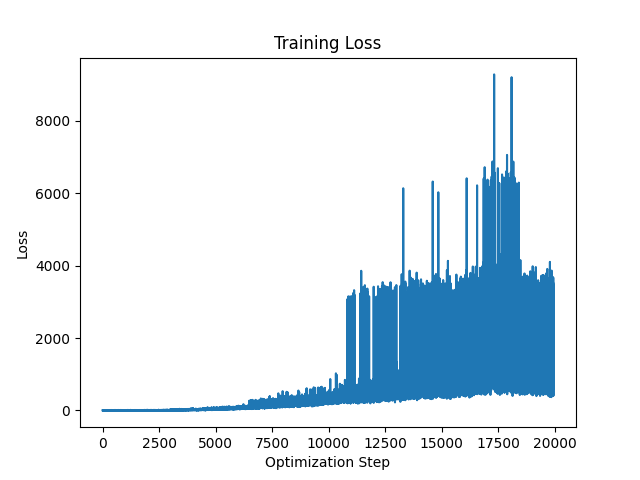
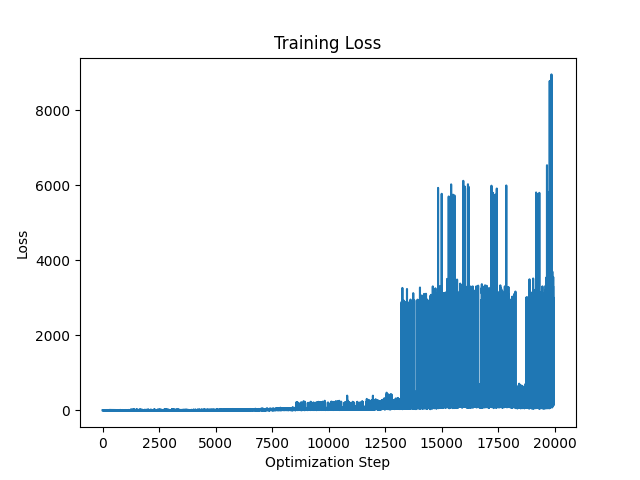
network was supposed to be sequential lmao

diff --git a/src/ai/tetris_network.py b/src/ai/tetris_network.py
@@ -1,4 +1,4 @@
-from .q_network import QNetwork, ReplayMemory, Transition
+from .q_network import QNetworkA, ReplayMemory, Transition
 from tetris import Tetris
 import torch
 import torch.nn as nn
@@ -9,7 +9,7 @@ import math
 import matplotlib.pyplot as plt
 
 class TetrisNetwork:
-    def __init__(self, env: Tetris, load=False, epsilon_start=1.0, epsilon_min=0.001, epsilon_decay=100000, learning_rate=1e-4):
+    def __init__(self, env: Tetris, load=False, epsilon_start=1.0, epsilon_min=0.001, epsilon_decay=150000, learning_rate=1e-4):
         self.device = torch.device(
             "cuda" if torch.cuda.is_available() else
             "mps" if torch.backends.mps.is_available() else
@@ -27,7 +27,7 @@ class TetrisNetwork:
         self.learning_rate = learning_rate
         self.GAMMA = 0.99
 
-        self.network = QNetwork().to(self.device)
+        self.network = QNetworkA().to(self.device)
         if load:
             self.network.load_state_dict(torch.load("network", weights_only=True))
             self.network.eval()
@@ -143,6 +143,10 @@ class TetrisNetwork:
             if episode % 200 == 0:
                 self.save_model()
 
+            if rewards > max_reward:
+                max_reward = rewards
+                self.save_model("max_reward_network")
+
             self.optimize_model()
             self.optimize_model()
 
@@ -153,8 +157,8 @@ class TetrisNetwork:
         print(f"Max Rewards: {max_reward}")
 
     
-    def save_model(self):
-        torch.save(self.network.state_dict(), "network")
+    def save_model(self, name="network"):
+        torch.save(self.network.state_dict(), name)
 
     def save_graphs(self):
         plt.figure()

diff --git a/src/ai/q_network.py b/src/ai/q_network.py
@@ -23,17 +23,16 @@ class ReplayMemory(object):
     def __len__(self):
         return len(self.memory)
 
-class QNetwork(nn.Module):
+class QNetworkA(nn.Module):
     def __init__(self):
-        super(QNetwork, self).__init__()
-        self.layer1 = nn.Linear(7, 64)
-        self.layer2 = nn.Linear(64, 64)
-        self.layer3 = nn.Linear(64, 32)
-        self.layer4 = nn.Linear(32, 1)
+        super(QNetworkA, self).__init__()
+        self.layer1 = nn.Sequential(nn.Linear(7, 64))
+        self.layer2 = nn.Sequential(nn.Linear(64, 64))
+        self.layer3 = nn.Sequential(nn.Linear(64, 32))
+        self.layer4 = nn.Sequential(nn.Linear(32, 1))
 
     def forward(self, x):
         x = F.tanh(self.layer1(x))
         x = F.tanh(self.layer2(x))
         x = F.tanh(self.layer3(x))
         return self.layer4(x)
-
